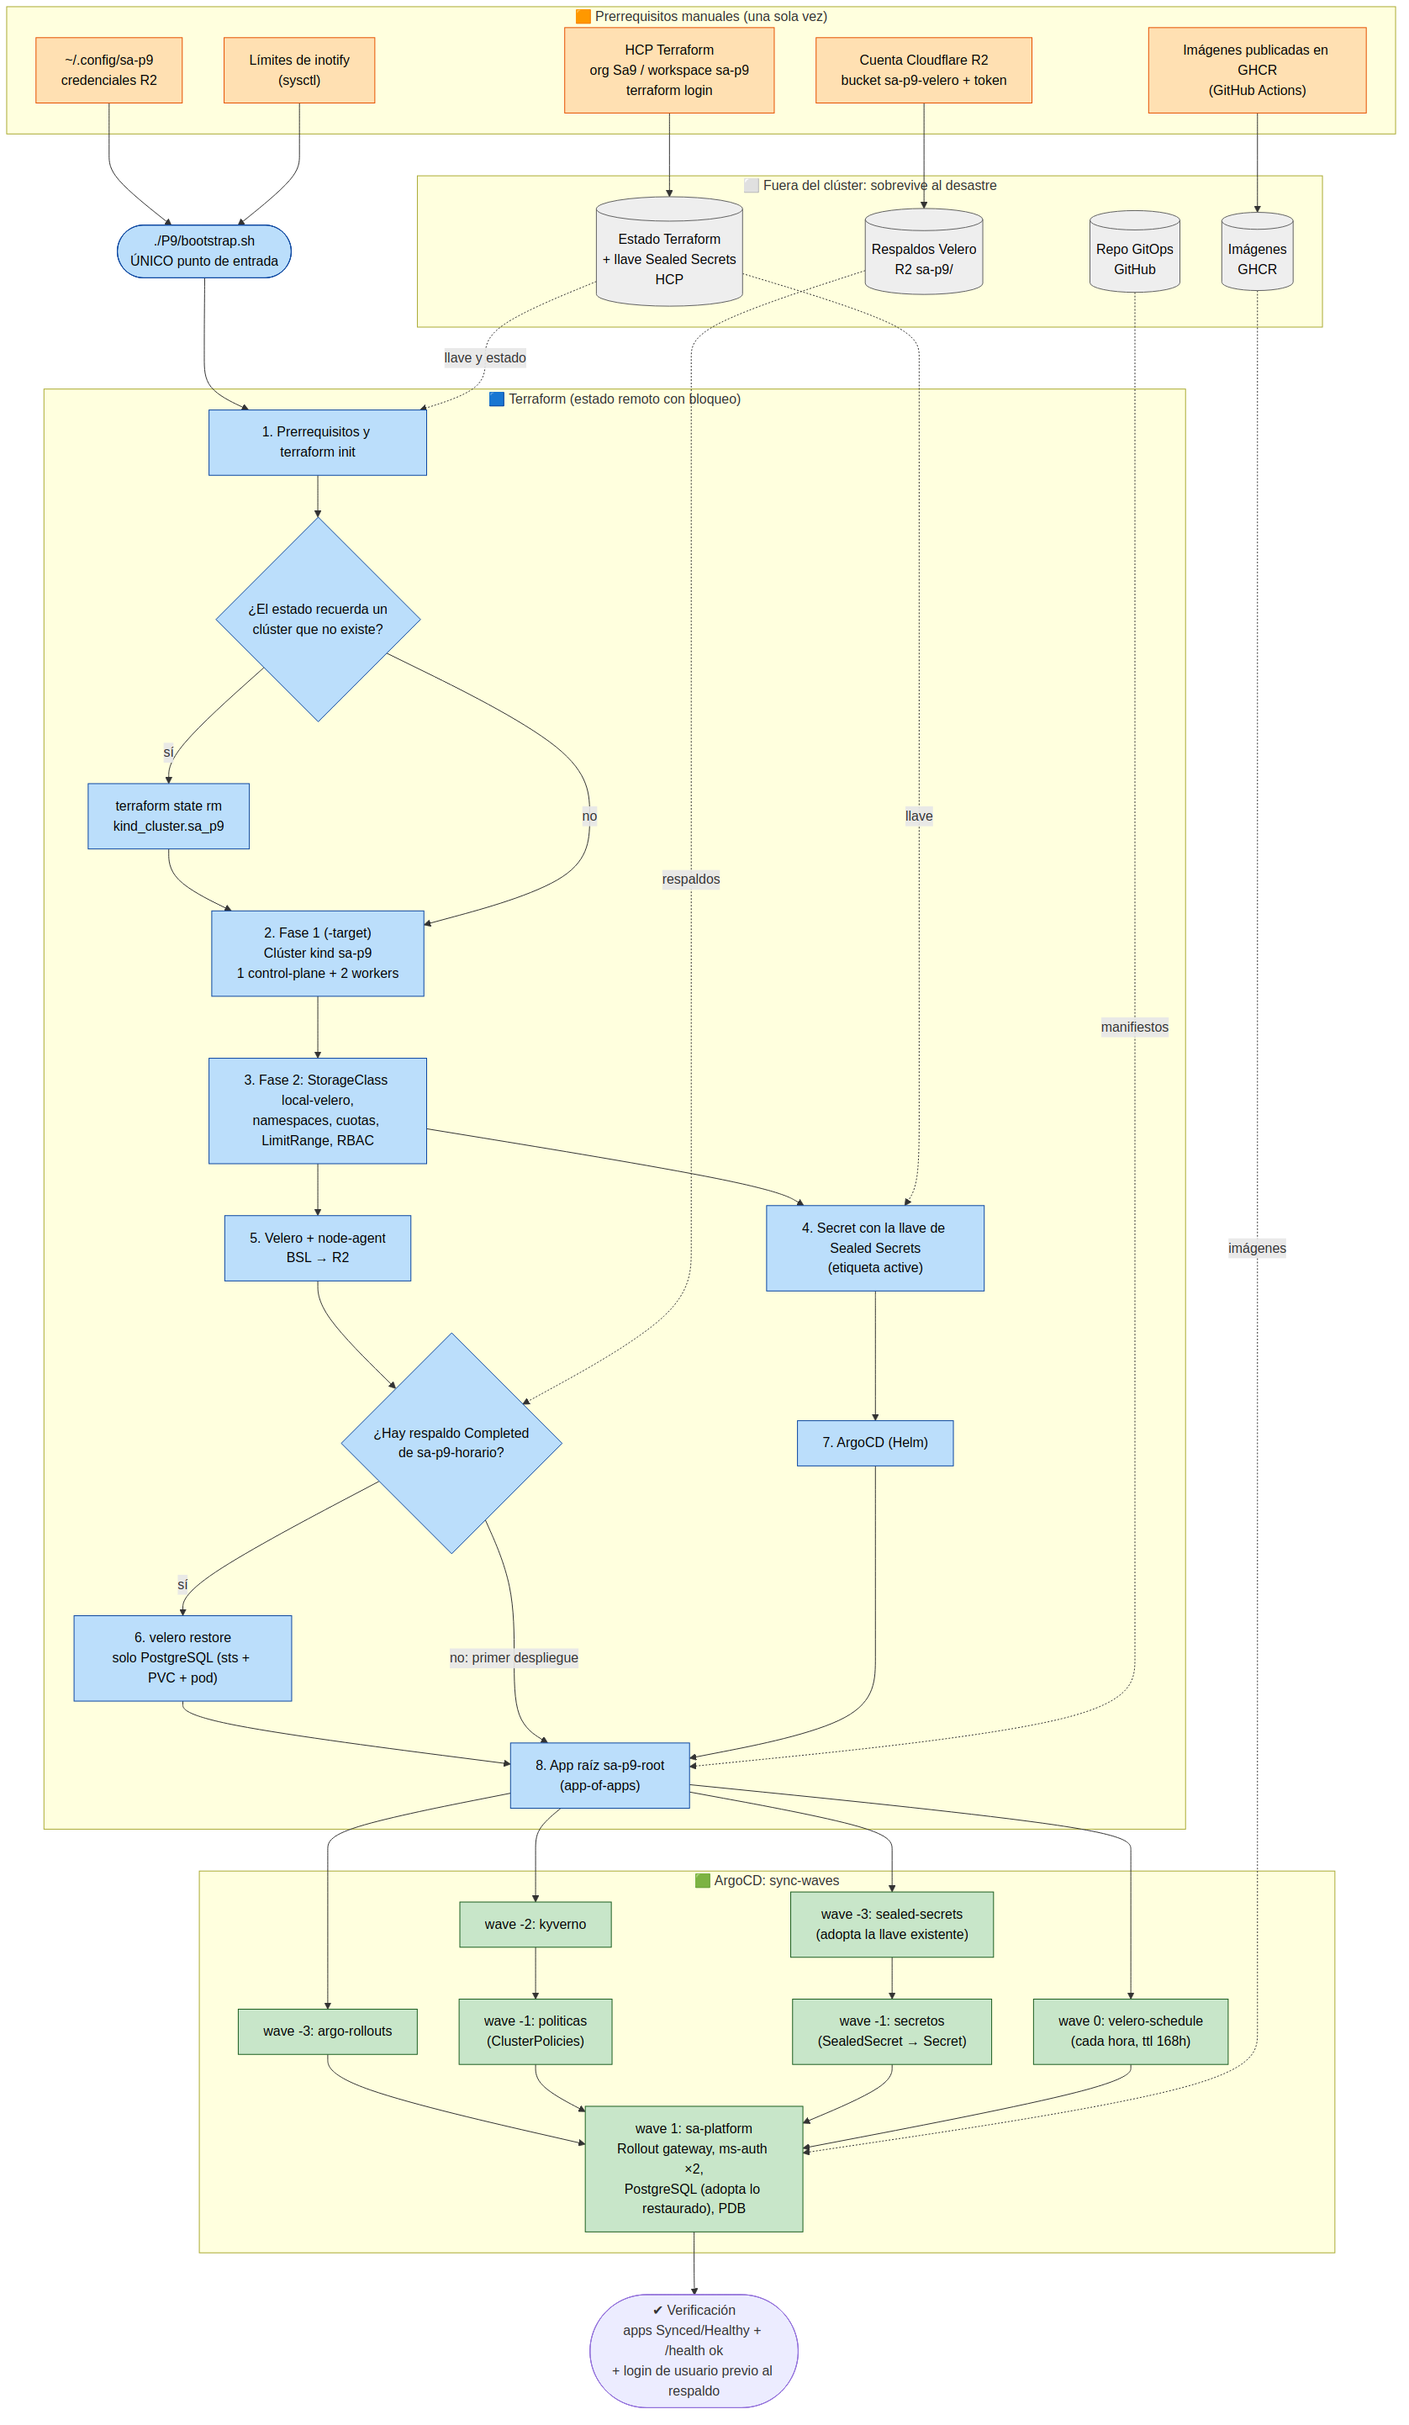
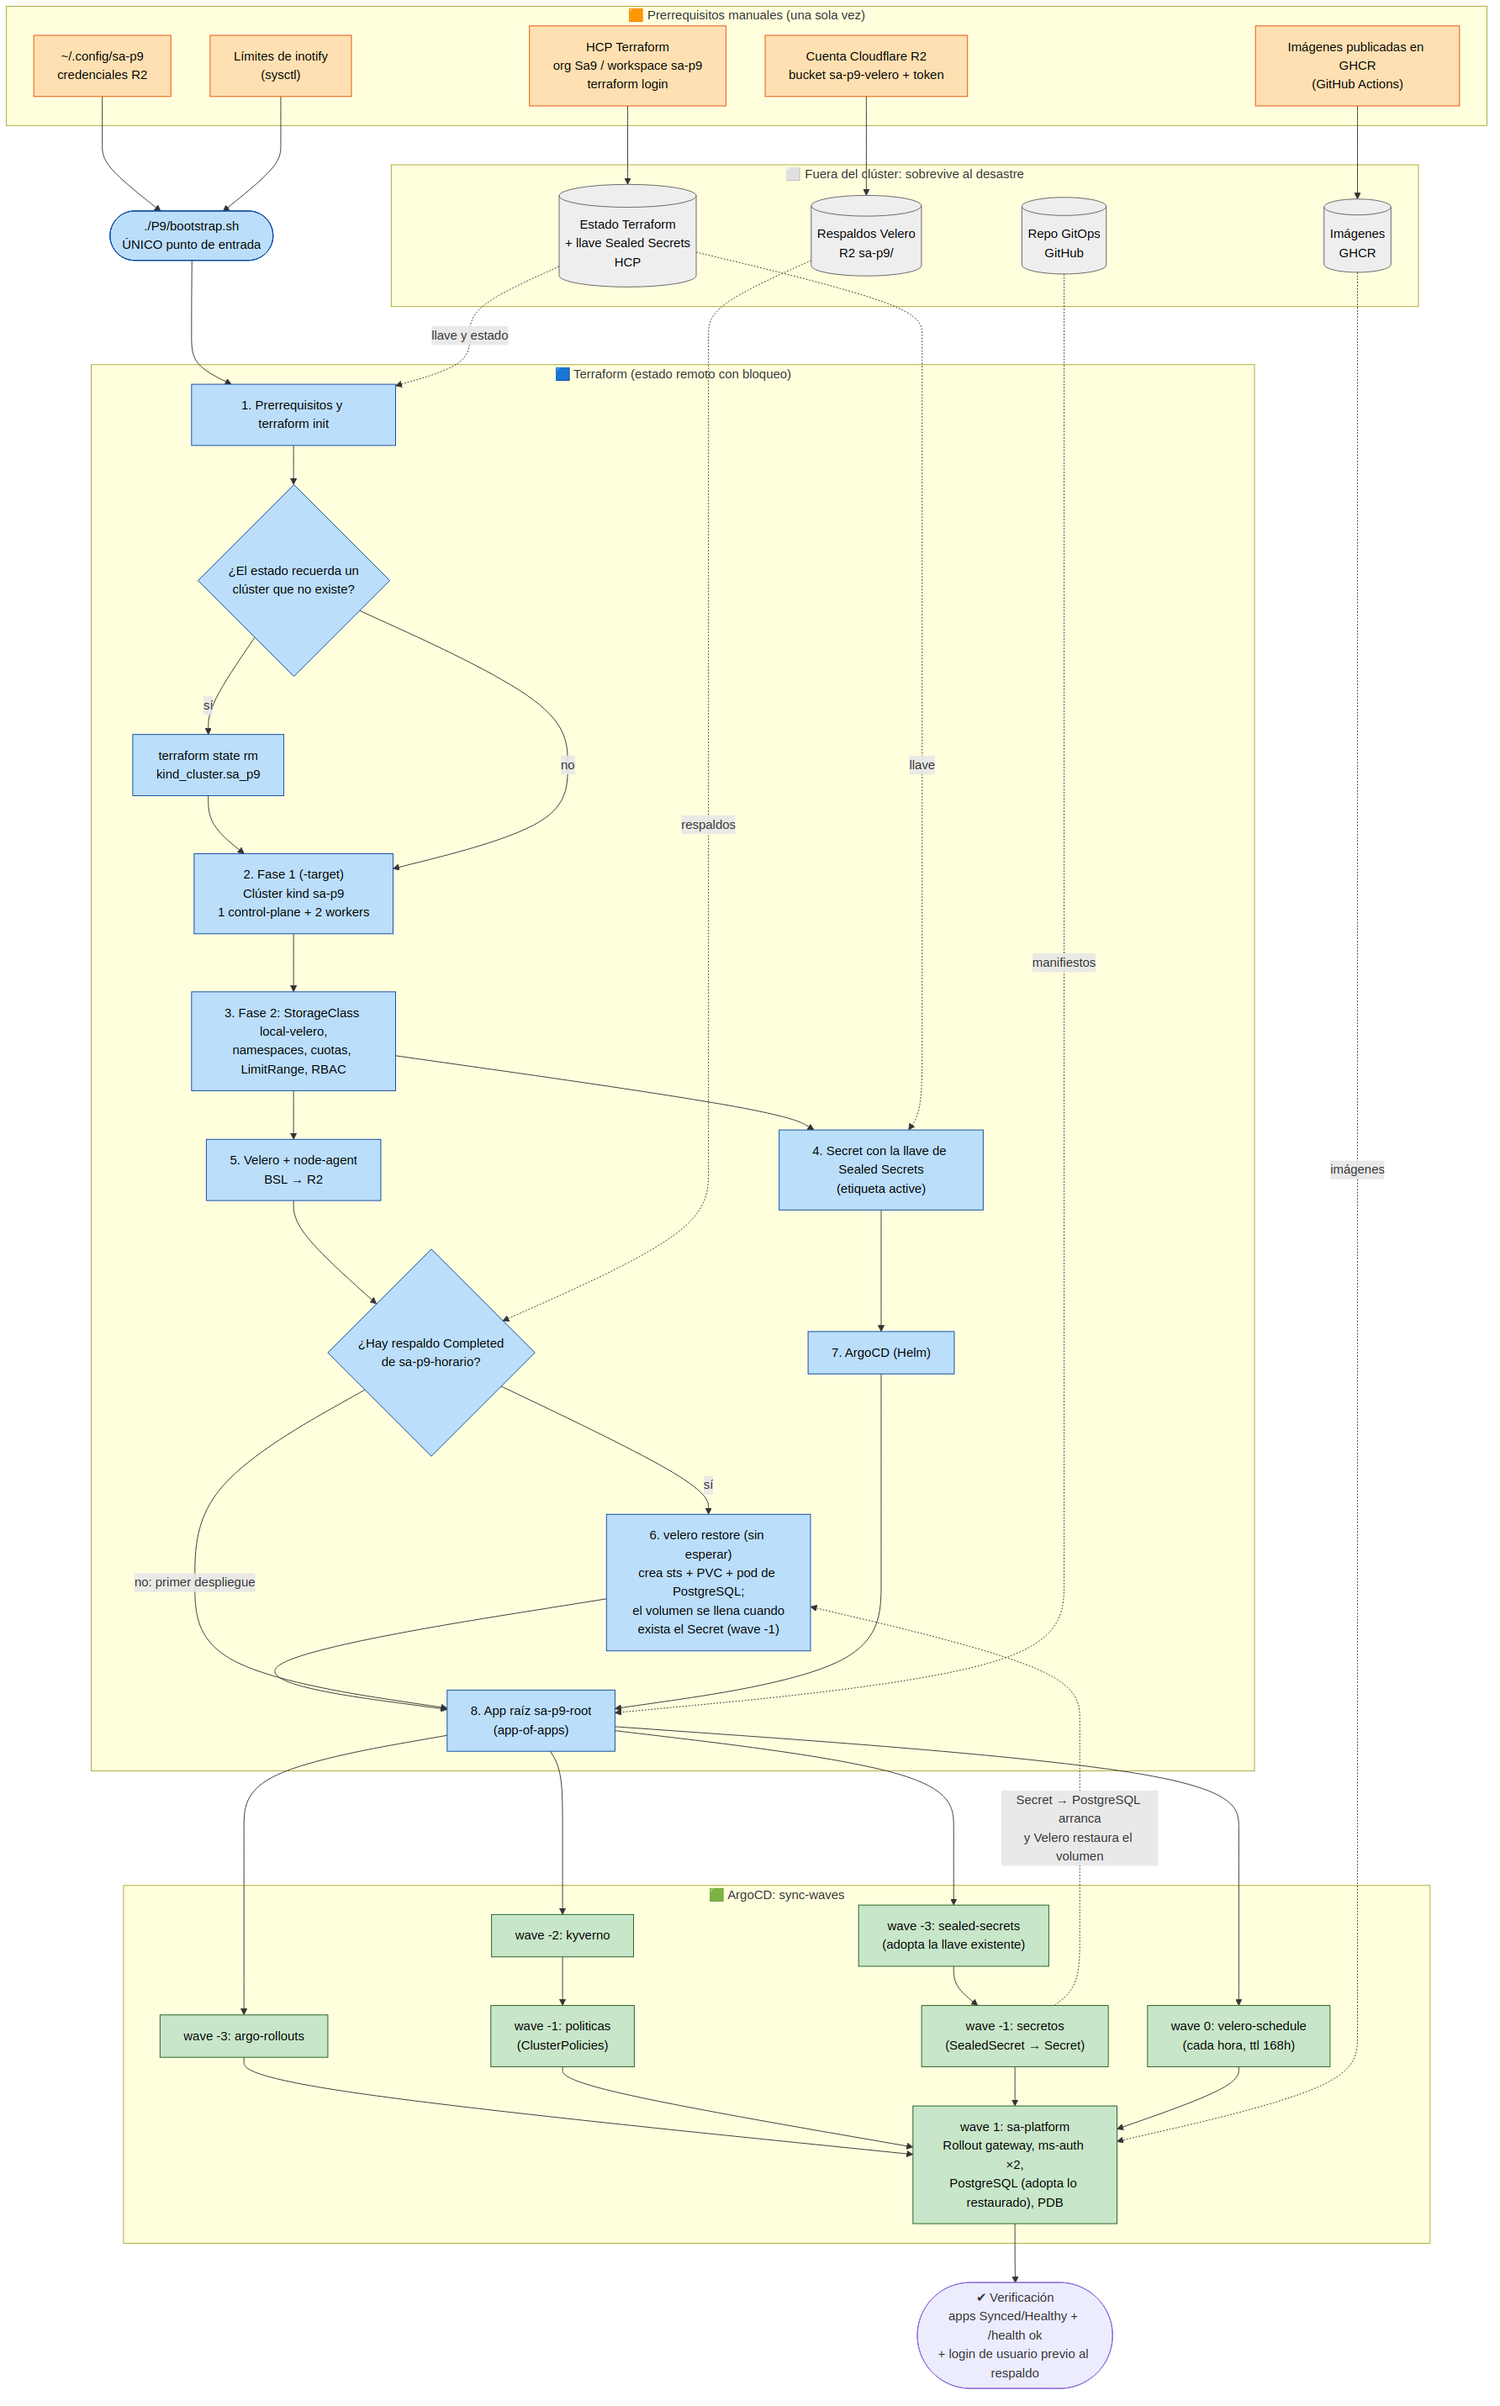
P9: corregir deadlock de restauración en la reconstrucción y agregar reintento automático
- restaurar-datos.sh ya no espera (--wait): el pod de PostgreSQL necesita el Secret que entrega ArgoCD
- bootstrap.sh verifica al final que el volumen se restauró; si no, reintenta (procedimiento B)
- runbook/prueba: esperar a que el pod viejo desaparezca antes de restaurar (si no, Velero lo omite y la base queda vacía)
- runbook: force-unlock en HCP usa el nombre del workspace
- evidencias de ensayos y de la recuperación con el runbook B

Changed region(s): [[0.0, 0.0, 0.9928, 0.9951], [0.4964, 0.4665, 0.7136, 0.6219], [0.4654, 0.3421, 0.4964, 0.3732]]

diff --git a/P9/RUNBOOK.md b/P9/RUNBOOK.md
@@ -88,9 +88,9 @@ Etapas que debe mostrar, en orden:
 | 1/6 prerrequisitos | revisa herramientas, `terraform login`, credenciales, inotify | `ok` |
 | 2/6 terraform init | conecta con el estado remoto en HCP | `ok` |
 | 3/6 fase 1 | si el estado recuerda un clúster que ya no existe: `DESASTRE DETECTADO ... state rm`; crea el clúster kind (1 control-plane + 2 workers) | `Apply complete!` y 3 nodos listados |
-| 4/6 fase 2 | StorageClass, namespaces, cuotas, RBAC, llave de Sealed Secrets, Velero, **restauración de PostgreSQL**, ArgoCD, app raíz | líneas `[restaurar-datos] respaldo elegido: ...` y `T_restore_fin ... fase=Completed`; `Apply complete!` |
+| 4/6 fase 2 | StorageClass, namespaces, cuotas, RBAC, llave de Sealed Secrets, Velero, **restauración de PostgreSQL**, ArgoCD, app raíz | líneas `[restaurar-datos] respaldo elegido: ...` y `StatefulSet y PVC de PostgreSQL restaurados`; `Apply complete!` |
 | 5/6 GitOps | espera a que todas las Applications estén Synced/Healthy | `todas Synced/Healthy` |
-| 6/6 servicio | `/health` del api-gateway | `"estado":"ok"` |
+| 6/6 servicio | `/health` del api-gateway y fin de la restauración del volumen | `"estado":"ok"` y `restauracion dr-... fase=Completed` |
 
 Si falla:
 - **Etapa 1**: el mensaje dice qué falta → volver a la sección 1.
@@ -148,14 +148,21 @@ Con el clúster funcionando. Restaura **solo** PostgreSQL desde un respaldo; el 
    ```bash
    kubectl --context kind-sa-p9 -n sa-p9-produccion delete statefulset sa-platform-postgresql
    kubectl --context kind-sa-p9 -n sa-p9-produccion delete pvc data-sa-platform-postgresql-0
+   kubectl --context kind-sa-p9 -n sa-p9-produccion wait --for=delete pod/sa-platform-postgresql-0 --timeout=180s
    ```
+   **No saltar el `wait`**: si el pod viejo aún existe cuando se restaura, Velero lo omite
+   ("ya existe"), no restaura el volumen y la base arranca **vacía** aunque el restore diga
+   `Completed`. Verificar en el paso 4 que aparezca un `PodVolumeRestore` con bytes.
 4. **Restaurar**:
    ```bash
    velero --kubecontext kind-sa-p9 restore create --from-backup "$BACKUP" \
      --include-namespaces sa-p9-produccion --selector app.kubernetes.io/name=postgresql --wait
    velero --kubecontext kind-sa-p9 restore get
    ```
-   Esperado: `Completed`. Si sale `PartiallyFailed`: `velero --kubecontext kind-sa-p9 restore describe <nombre> --details`.
+   Esperado: `Completed` **y** al menos un PodVolumeRestore `Completed` con ~100 MB:
+   `kubectl --context kind-sa-p9 -n velero get podvolumerestores -l velero.io/restore-name=<nombre>`.
+   Si no hay ninguno, el volumen no se restauró: repetir desde el paso 3.
+   Si sale `PartiallyFailed`: `velero --kubecontext kind-sa-p9 restore describe <nombre> --details`.
 5. **Esperar a la base**: `kubectl --context kind-sa-p9 -n sa-p9-produccion wait --for=condition=Ready pod/sa-platform-postgresql-0 --timeout=300s`
 6. **Verificar el contenido**: igual que A.3 (conteo y login).
 7. **Reactivar ArgoCD** (la raíz devuelve también la política de `sa-platform`):
@@ -219,7 +226,11 @@ cifrados de los usuarios quedan **ilegibles**. Por eso la copia fuera de línea 
 ### E.1 Terraform bloqueado
 Síntoma: `Error acquiring the state lock` (otra persona aplica, o un `apply` anterior se interrumpió).
 1. Confirmar en https://app.terraform.io → `Sa9/sa-p9` que **nadie** está aplicando.
-2. `terraform -chdir=P9/terraform force-unlock <Lock ID mostrado en el error>`
+2. `terraform -chdir=P9/terraform force-unlock -force "Sa9/sa-p9"`
+   (con HCP Terraform el ID que acepta es el **nombre del workspace**, que aparece como
+   `lock ID: "Sa9/sa-p9"` en el error; el UUID de la línea `ID:` es rechazado).
+3. Volver a ejecutar `./P9/bootstrap.sh`: retoma desde lo que quedó a medias.
+   Ocurrió en las pruebas cuando un bootstrap se interrumpió en la fase 2.
 
 ### E.2 Un respaldo se queda `InProgress`
 Síntoma: `velero backup get` muestra `InProgress` por más de 10 min (visto en las pruebas).

diff --git a/P9/DIAGRAMA-BOOTSTRAP.md b/P9/DIAGRAMA-BOOTSTRAP.md
@@ -41,7 +41,7 @@ flowchart TD
     B5["4. Secret con la llave de Sealed Secrets<br/>(etiqueta active)"]
     B6["5. Velero + node-agent<br/>BSL → R2"]
     B7{"¿Hay respaldo Completed<br/>de sa-p9-horario?"}
-    B7a["6. velero restore<br/>solo PostgreSQL (sts + PVC + pod)"]
+    B7a["6. velero restore (sin esperar)<br/>crea sts + PVC + pod de PostgreSQL;<br/>el volumen se llena cuando<br/>exista el Secret (wave -1)"]
     B8["7. ArgoCD (Helm)"]
     B9["8. App raíz sa-p9-root<br/>(app-of-apps)"]
     B1 --> B2
@@ -66,6 +66,7 @@ flowchart TD
     W1b["wave -1: secretos<br/>(SealedSecret → Secret)"]
     W0["wave 0: velero-schedule<br/>(cada hora, ttl 168h)"]
     W1["wave 1: sa-platform<br/>Rollout gateway, ms-auth ×2,<br/>PostgreSQL (adopta lo restaurado), PDB"]
+    W1b -. "Secret → PostgreSQL arranca<br/>y Velero restaura el volumen" .-> B7a
     W3a --> W1b
     W3b --> W1
     W2 --> W1a --> W1
@@ -98,6 +99,7 @@ flowchart TD
 | Clúster → todo lo demás (apply en dos fases) | Los providers `helm` y `kubernetes` se configuran con las credenciales del clúster; si no existe, no pueden planificar. |
 | Llave de Sealed Secrets → ArgoCD | Si el controlador arranca sin llave, genera una nueva y los SealedSecret del repo no se pueden descifrar. |
 | Velero y restauración → app raíz | Si ArgoCD sincroniza primero, crea un PostgreSQL con volumen **vacío**; la restauración tiene que llegar antes para que ArgoCD **adopte** la base restaurada. |
+| Restauración lanzada, **no esperada** | El pod de PostgreSQL monta su contraseña desde el Secret que entrega Sealed Secrets (wave -1). Esperar el restore antes de ArgoCD era un deadlock (restore → Secret → ArgoCD → restore), detectado en un ensayo. El volumen termina de restaurarse cuando llega el Secret; `bootstrap.sh` lo verifica al final. |
 | StorageClass `local-velero` → Velero/PostgreSQL | Velero File System Backup no respalda volúmenes `hostPath`; esta clase crea volúmenes `local`. |
 | wave -3 → -2 → -1 → 0 → 1 | CRDs y controladores (Sealed Secrets, Rollouts, Kyverno) antes que los recursos que los usan (SealedSecret, Rollout, ClusterPolicy) y antes que la aplicación. |
 | Schedule en GitOps, Velero en Terraform | El calendario y la retención son configuración versionada; el motor de respaldo es infraestructura que tiene que existir antes de restaurar. |
